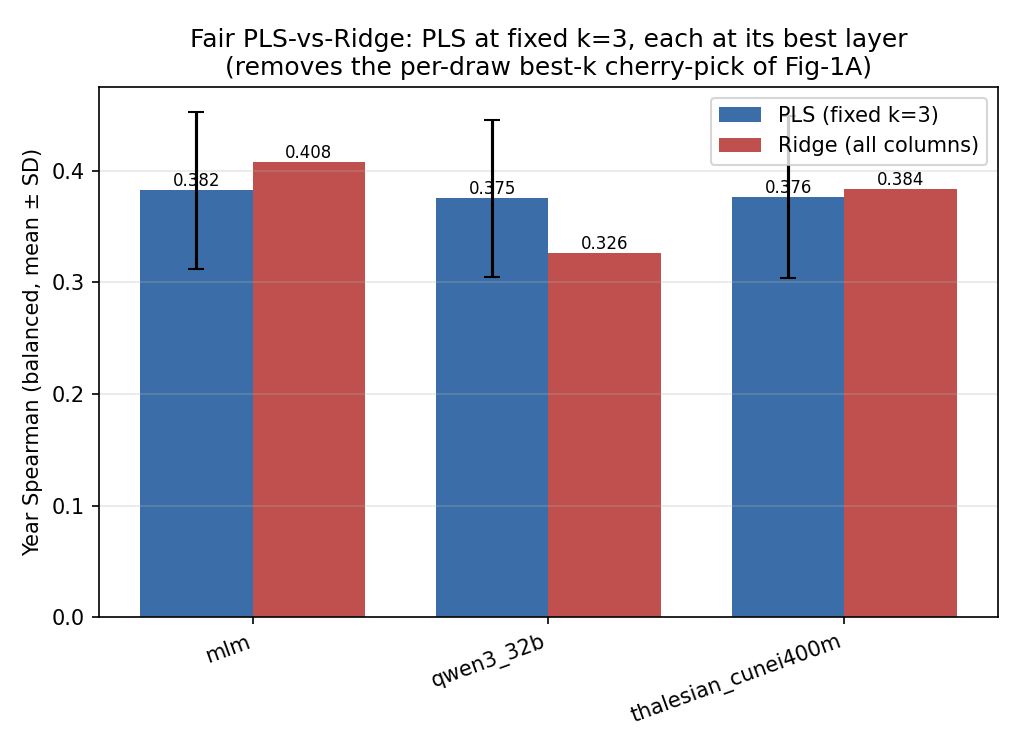
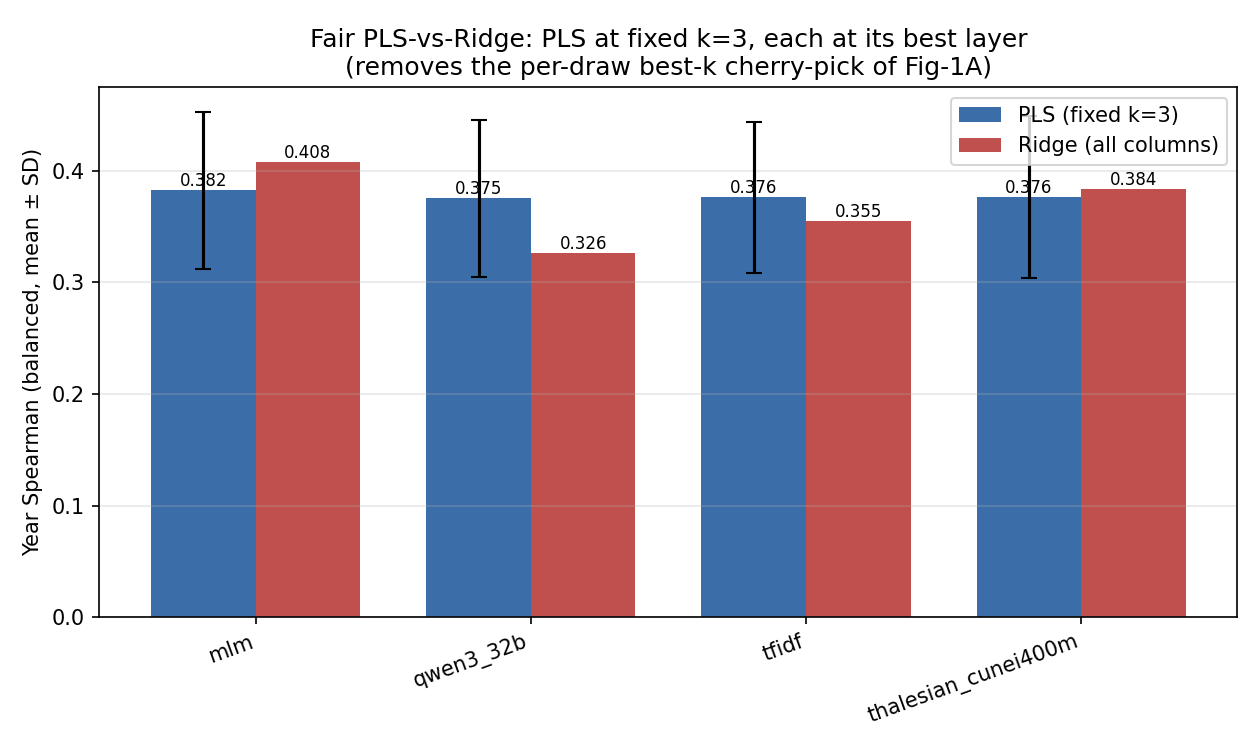
TF-IDF k-sweep 4th curve (lean local compute; cluster path timed out)
run_mc_probes tfidf path did 6x redundant work (both cleanings x raw+log x ruler
x shuffled) -> 2h timeout at 22/200 draws. tfidf_ksweep_local.py computes only
balanced tier0 year-raw Spearman per k, parallel over 200 draws (~13min), merges
into the tradeoff + best_k CSVs and regenerates all figures. Result: tfidf peaks
k=3 (0.376) ABOVE its Ridge (0.355) like qwen3_32b — high-dim sparse benefits
from PLS dim-reduction; selection gap +0.039.

diff --git a/v_1/src/geodesic/fig1_followups/pls_ksweep/tfidf_ksweep_local.py b/v_1/src/geodesic/fig1_followups/pls_ksweep/tfidf_ksweep_local.py
@@ -1,0 +1,150 @@
+#!/usr/bin/env python3
+"""Lean LOCAL TF-IDF k-sweep — the 4th curve, computed on the laptop.
+
+The cluster backfill timed out because run_mc_probes.run_tfidf_pls does ~6x the
+needed work (both cleanings x raw+log year x ruler PLS-DA x shuffled nulls).
+TF-IDF is text-only, so we compute exactly what the figures need here: balanced
+tier0 year-raw Spearman per k, over the 200 MC draws, parallel over draws.
+
+Then it MERGES tfidf into pls_components_tradeoff.csv + best_k_vs_fixed_k.csv and
+regenerates pls_components_tradeoff.png, best_k_vs_fixed_k.png, per_method_panels.png.
+
+Uses fit_pls_groupkfold (the same selector the neural curves used) so tfidf is
+apples-to-apples. Run from repo root: python .../tfidf_ksweep_local.py
+"""
+from __future__ import annotations
+
+import csv
+import subprocess
+import sys
+from pathlib import Path
+
+import numpy as np
+import pandas as pd
+from joblib import Parallel, delayed
+
+_THIS = Path(__file__).resolve()
+_REPO = _THIS.parents[5]
+sys.path.insert(0, str(_REPO / "v_1/src/linear_probing"))
+from pls_utils import fit_pls_groupkfold          # noqa: E402
+
+KS = [1, 2, 3, 5, 8, 16, 32, 64]                  # 128 always exceeds the balanced cap
+RIDGE_TFIDF = 0.355                                # T2 balanced tier0 year-raw best (L00)
+TFIDF = dict(analyzer="char_wb", ngram_range=(2, 5))
+PK = _REPO / "v_1/src/geodesic/fig1_followups/pls_ksweep"
+BAL = _REPO / "v_1/src/linear_probing/results/orcc_round2_phase0/balanced_subset"
+
+
+def _draw_sweep(di, draws, df, frag_order):
+    from sklearn.feature_extraction.text import TfidfVectorizer
+    from sklearn.preprocessing import normalize
+    row = draws[di]
+    pos = np.where(row)[0] if row.dtype == bool else row.astype(int)
+    sub = df.iloc[pos]
+    X = normalize(TfidfVectorizer(**TFIDF).fit_transform(sub["text_tier0"].fillna("").astype(str)),
+                  norm="l2").toarray().astype(np.float32)
+    y = sub["year"].astype(float).values
+    g = sub["ruler"].astype(str).values
+    out = {}
+    for k in KS:
+        try:
+            out[k] = fit_pls_groupkfold(X, y, g, n_components=k, n_splits=5)["spearman_mean"]
+        except Exception:
+            out[k] = np.nan
+    return out
+
+
+def merge_csv(path: Path, rows_new, key_prefix):
+    """Drop existing tfidf rows, append new ones, keep header."""
+    existing = list(csv.reader(open(path)))
+    head, body = existing[0], [r for r in existing[1:] if r and r[0] != "tfidf"]
+    with open(path, "w", newline="") as f:
+        w = csv.writer(f); w.writerow(head); w.writerows(body); w.writerows(rows_new)
+
+
+def main():
+    draws = np.load(BAL / "draws_matrix.npy")
+    frag_order = __import__("json").load(open(BAL / "corpus_fragment_order.json"))
+    df = pd.read_parquet(_REPO / "v_1/data/evaluation/corpora/orcc_corpus.parquet").reset_index(drop=True)
+    n = draws.shape[0]
+    print(f"[tfidf] sweeping k={KS} over {n} balanced draws (parallel)...")
+    per_draw = Parallel(n_jobs=-1, verbose=5)(
+        delayed(_draw_sweep)(di, draws, df, frag_order) for di in range(n))
+
+    # per-k mean/std  -> tradeoff rows
+    tradeoff_rows = []
+    for k in KS:
+        vals = [d[k] for d in per_draw if np.isfinite(d[k])]
+        if vals:
+            tradeoff_rows.append(["tfidf", k, np.mean(vals), np.std(vals), RIDGE_TFIDF])
+    merge_csv(PK / "pls_components_tradeoff.csv", tradeoff_rows, "tfidf")
+
+    # best-k row
+    fixed3 = np.nanmean([d[3] for d in per_draw])
+    bestk = np.nanmean([max(v for v in d.values() if np.isfinite(v)) for d in per_draw])
+    merge_csv(PK / "best_k_vs_fixed_k.csv",
+              [["tfidf", n, fixed3, bestk, RIDGE_TFIDF, bestk - fixed3]], "tfidf")
+    print(f"[tfidf] fixed_k3={fixed3:.3f} best_k_per_draw={bestk:.3f} ridge={RIDGE_TFIDF} "
+          f"peak_fixed={max(r[2] for r in tradeoff_rows):.3f}")
+
+    # regenerate the three figures from the merged CSVs
+    _replot_tradeoff(); _replot_bestk()
+    subprocess.run([sys.executable, str(PK / "per_method_panels.py"),
+                    "--tradeoff-csv", str(PK / "pls_components_tradeoff.csv"),
+                    "--bestk-csv", str(PK / "best_k_vs_fixed_k.csv")], check=True)
+    print("[ok] regenerated tradeoff / best_k / per_method_panels with the tfidf curve")
+
+
+def _style(plt):
+    plt.rcParams.update({"figure.dpi": 150, "axes.spines.top": False, "axes.spines.right": False,
+                         "axes.grid": True, "grid.alpha": 0.3, "axes.axisbelow": True})
+
+
+def _replot_tradeoff():
+    import matplotlib; matplotlib.use("Agg"); import matplotlib.pyplot as plt
+    _style(plt)
+    rows = list(csv.DictReader(open(PK / "pls_components_tradeoff.csv")))
+    models = sorted({r["model"] for r in rows})
+    colors = plt.cm.tab10(np.linspace(0, 1, len(models)))
+    fig, ax = plt.subplots(figsize=(8, 5.5))
+    for m, c in zip(models, colors):
+        rs = sorted((r for r in rows if r["model"] == m), key=lambda r: int(r["k"]))
+        ks = [int(r["k"]) for r in rs]; mu = [float(r["spearman_mean"]) for r in rs]
+        sd = [float(r["spearman_std"]) for r in rs]
+        ax.plot(ks, mu, "-o", color=c, label=m)
+        ax.fill_between(ks, np.array(mu) - sd, np.array(mu) + sd, color=c, alpha=0.12)
+        rb = rs[0].get("ridge_baseline")
+        if rb not in (None, "", "None"):
+            ax.axhline(float(rb), color=c, ls="--", lw=1, alpha=0.7)
+    ax.set_xscale("log", base=2); ax.set_xlabel("PLS components k (log2)")
+    ax.set_ylabel("Year Spearman (balanced, mean ± SD)")
+    ax.set_title("PLS components tradeoff — dashed = Ridge (all columns)")
+    ax.legend(fontsize=8); fig.tight_layout()
+    fig.savefig(PK / "pls_components_tradeoff.png"); plt.close(fig)
+
+
+def _replot_bestk():
+    import matplotlib; matplotlib.use("Agg"); import matplotlib.pyplot as plt
+    _style(plt)
+    rows = list(csv.DictReader(open(PK / "best_k_vs_fixed_k.csv")))
+    models = [r["model"] for r in rows]
+    fixed = [float(r["fixed_k3"]) for r in rows]
+    best = [float(r["best_k_per_draw"]) for r in rows]
+    ridge = [float(r["ridge"]) for r in rows]
+    x = np.arange(len(models)); w = 0.27
+    fig, ax = plt.subplots(figsize=(1.7 * len(models) + 2, 5))
+    ax.bar(x - w, fixed, w, color="#3b6ea8", label="PLS fixed k=3 (honest)")
+    ax.bar(x, best, w, color="#f0a202", label="PLS best-k-per-draw (Fig-1A)")
+    ax.bar(x + w, ridge, w, color="#c0504d", label="Ridge (all columns)")
+    for i in range(len(models)):
+        for off, v in [(-w, fixed[i]), (0, best[i]), (w, ridge[i])]:
+            ax.text(i + off, v, f"{v:.3f}", ha="center", va="bottom", fontsize=7)
+    ax.set_xticks(x); ax.set_xticklabels(models, rotation=20, ha="right")
+    ax.set_ylabel("Year Spearman (balanced, mean ± SD)")
+    ax.set_title("best-k-per-draw vs fixed k=3 vs Ridge (orange − blue = selection inflation)")
+    ax.legend(fontsize=8); fig.tight_layout()
+    fig.savefig(PK / "best_k_vs_fixed_k.png"); plt.close(fig)
+
+
+if __name__ == "__main__":
+    main()
